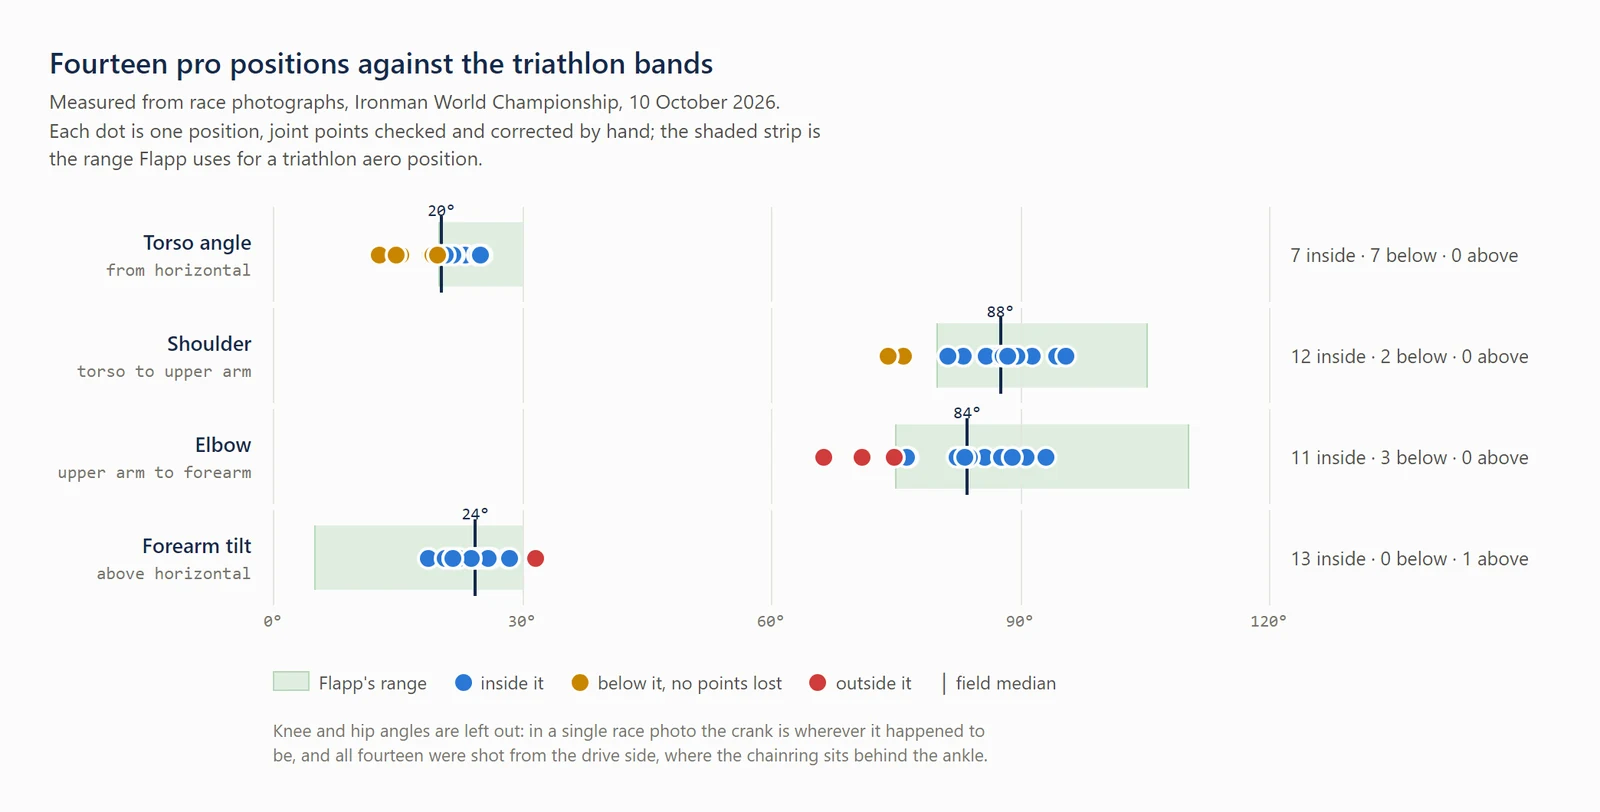
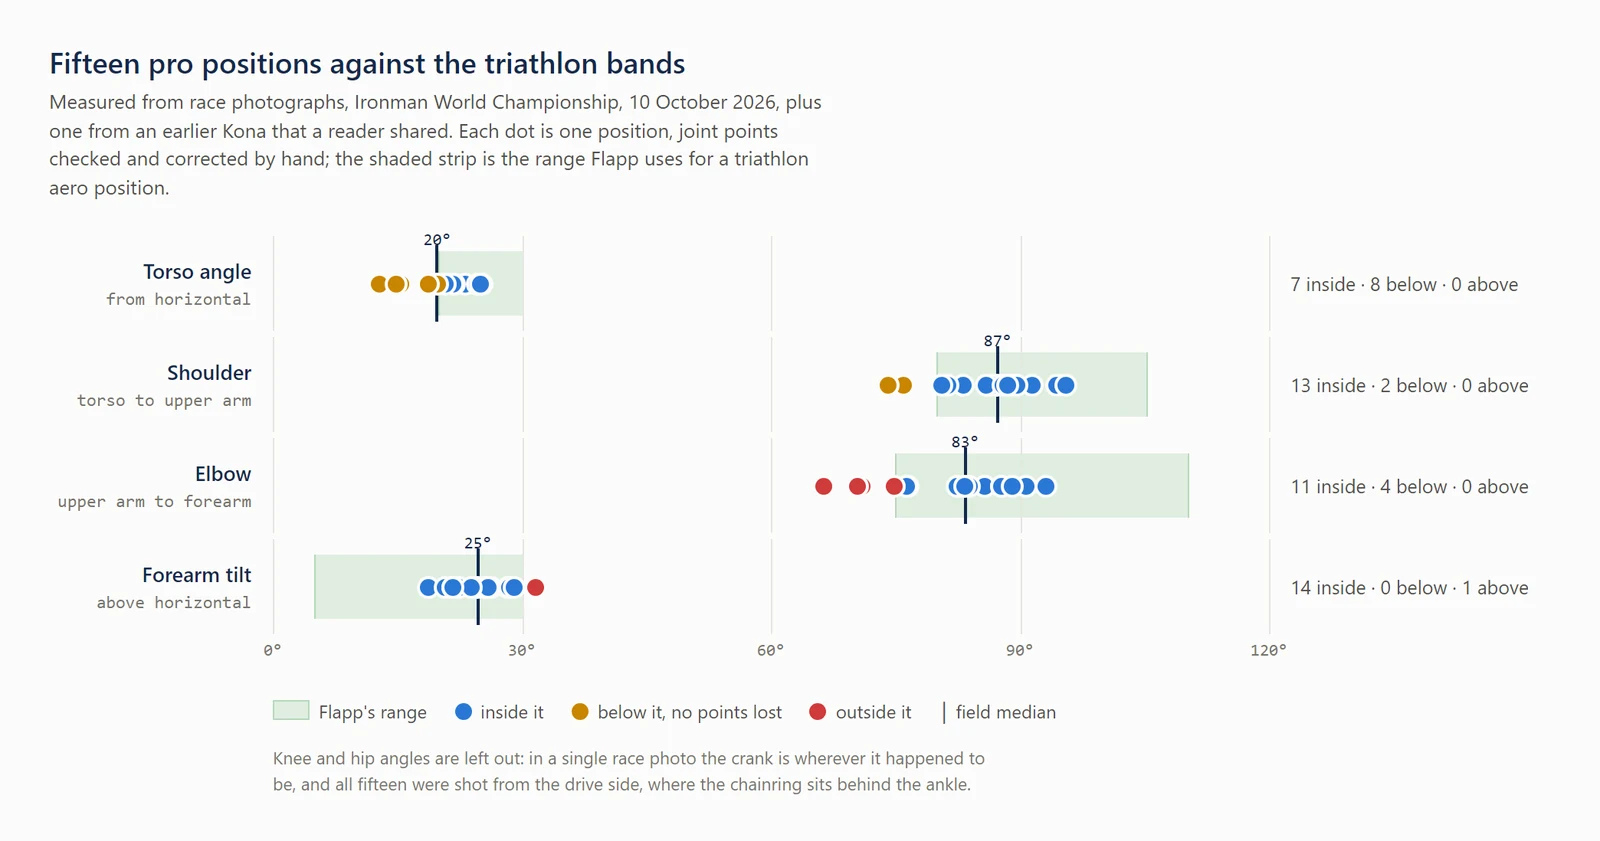
Kona article: Trevor Foley added as position 15, ranges re-measured on fifteen
A reader asked about Foley and shared a photo; Artur corrected its points in
the same editor. It is from an earlier Kona, not 2026, and the caption, the
method and the field chart say so. New medians: torso 20, shoulder 87,
elbow 83, forearm 25; middle halves 19-22, 82-89, 76-88, 22-27.

diff --git a/backend/tests/test_academy_figures.py b/backend/tests/test_academy_figures.py
@@ -51,26 +51,29 @@ class TestTheKonaDraft:
         for src in srcs:
             assert (MEDIA / src.removeprefix("/media/")).is_file(), src
 
-    def test_all_fourteen_positions_are_shown_on_their_photographs(self):
+    def test_all_fifteen_positions_are_shown_on_their_photographs(self):
         """Artur's call (2026-10-11): the figures first went out drawn on a
         neutral ground; he asked for the race photographs, every one. The
-        frame where the model found the motorbike passenger stays out."""
+        frame where the model found the motorbike passenger stays out. The
+        fifteenth is Trevor Foley, a reader's photo from an earlier Kona,
+        and its caption says so."""
         text = DRAFT.read_text(encoding="utf-8")
         shown = re.findall(r"\(/media/academy/kona-2026/position-(\d\d)\.webp\)", text)
-        assert shown == [f"{n:02d}" for n in range(1, 15)]
-        tilts = [float(m) for m in re.findall(r"Position \d+ of 14: forearm tilt (\d+)", text)]
+        assert shown == [f"{n:02d}" for n in range(1, 16)]
+        assert "Trevor Foley, from a photo a reader shared; an earlier Kona, not the 2026 race." in text
+        tilts = [float(m) for m in re.findall(r"Position \d+ of 15: forearm tilt (\d+)", text)]
         assert tilts == sorted(tilts), "ordered from the flattest forearms to the steepest"
 
     def test_the_hand_corrections_are_disclosed(self):
         """Readers pointed out points sitting off the joints; Artur moved the
-        ones that missed on all fourteen photos (2026-10-11). The article says
+        ones that missed on all fifteen photos (2026-10-11). The article says
         it was updated, how many points moved and by how much, rings every
         moved point, and gives the before-and-after medians."""
         text = DRAFT.read_text(encoding="utf-8")
         assert text.split("---", 2)[2].lstrip().startswith("**Updated 11 October 2026.**")
-        assert "33 of the 56 points moved" in text
+        assert "36 of the 60 points moved" in text
         assert "A ringed point is one we moved into the joint by hand." in text
-        assert "shoulder 85° to 88°, elbow 80° to 84°, forearm tilt 25° to 24°" in text
+        assert "shoulder 84° to 87°, elbow 78° to 83°" in text
 
     def test_uci_is_not_presented_as_a_triathlon_rule(self):
         """UCI equipment rules govern road time trials, not Ironman, whose 2025
@@ -82,10 +85,10 @@ class TestTheKonaDraft:
 
     def test_the_numbers_in_the_text_match_the_table(self):
         text = DRAFT.read_text(encoding="utf-8")
-        for row in ("| Torso, from horizontal | 20° | 19–23° | 13–25° | 20–30° |",
-                    "| Shoulder, torso to upper arm | 88° | 84–89° | 74–96° | 80–105° |",
-                    "| Elbow | 84° | 76–88° | 66–93° | 75–110° |",
-                    "| Forearm tilt, above horizontal | 24° | 22–26° | 19–32° | 5–30° |"):
+        for row in ("| Torso, from horizontal | 20° | 19–22° | 13–25° | 20–30° |",
+                    "| Shoulder, torso to upper arm | 87° | 82–89° | 74–96° | 80–105° |",
+                    "| Elbow | 83° | 76–88° | 66–93° | 75–110° |",
+                    "| Forearm tilt, above horizontal | 25° | 22–27° | 19–32° | 5–30° |"):
             assert row in text, row
 
     def test_the_article_column_cannot_be_pushed_wider_than_a_phone(self):

diff --git a/backend/content/academy/kona-2026-pro-bike-positions.md b/backend/content/academy/kona-2026-pro-bike-positions.md
@@ -1,7 +1,7 @@
 ---
 slug: "kona-2026-pro-bike-positions"
-title: "Kona 2026: What 14 Pro Bike Positions Actually Measure"
-description: "We measured fourteen professional triathlon positions from Ironman World Championship race photos and checked every joint point by hand. Hands are up, torsos are not as low as you think, and a closed shoulder is a choice. The numbers, and what an age-grouper should take from them."
+title: "Kona 2026: What 15 Pro Bike Positions Actually Measure"
+description: "We measured fifteen professional triathlon positions from Ironman World Championship race photos and checked every joint point by hand. Hands are up, torsos are not as low as you think, and a closed shoulder is a choice. The numbers, and what an age-grouper should take from them."
 category: "bike-aero"
 sport: "bike"
 read_time: 7
@@ -42,26 +42,26 @@ sources:
     finding: "A 90° torso-to-upper-arm angle is the reference; less than 90° is the athlete's personal choice, while an angle more obtuse than 90° can become an issue."
 ---
 
-**Updated 11 October 2026.** After the first version went out, readers pointed out that some of the pose model's points sat off the joints. They were right, so we checked every point on every photo and moved the ones that missed into the joint by hand. All the numbers, figures and photos below are the corrected ones; what changed is listed under "How we measured".
+**Updated 11 October 2026.** After the first version went out, readers pointed out that some of the pose model's points sat off the joints. They were right, so we checked every point on every photo and moved the ones that missed into the joint by hand. We also added a fifteenth position a reader asked about: Trevor Foley, from an earlier Kona. All the numbers, figures and photos below are the corrected ones; what changed is listed under "How we measured".
 
-The day after the Ironman World Championship we ran fourteen professional bike positions, taken from race photographs, through the same pose model Flapp uses on your clips. The median pro rode with the torso 20° above horizontal, the upper arm at 88° to the torso, the elbow bent to 84° and the forearms tilted 24° up. The forearms are the story: not one of the fourteen rode them flat.
+The day after the Ironman World Championship we ran fourteen professional bike positions, taken from race photographs, through the same pose model Flapp uses on your clips, plus one more that a reader sent in. The median pro rode with the torso 20° above horizontal, the upper arm at 87° to the torso, the elbow bent to 83° and the forearms tilted 25° up. The forearms are the story: not one of the fifteen rode them flat.
 
 ## The median Kona position
 
 | Angle | Median | Middle half | Full range | Flapp's triathlon range |
 |---|---|---|---|---|
-| Torso, from horizontal | 20° | 19–23° | 13–25° | 20–30° |
-| Shoulder, torso to upper arm | 88° | 84–89° | 74–96° | 80–105° |
-| Elbow | 84° | 76–88° | 66–93° | 75–110° |
-| Forearm tilt, above horizontal | 24° | 22–26° | 19–32° | 5–30° |
+| Torso, from horizontal | 20° | 19–22° | 13–25° | 20–30° |
+| Shoulder, torso to upper arm | 87° | 82–89° | 74–96° | 80–105° |
+| Elbow | 83° | 76–88° | 66–93° | 75–110° |
+| Forearm tilt, above horizontal | 25° | 22–27° | 19–32° | 5–30° |
 
-![Each dot is one of the fourteen positions; the green strip is the range Flapp uses for a triathlon aero position. Amber marks a reading below the range that costs no points.](/media/academy/kona-2026/field.webp)
+![Each dot is one of the fifteen positions; the green strip is the range Flapp uses for a triathlon aero position. Amber marks a reading below the range that costs no points.](/media/academy/kona-2026/field.webp)
 
 ## 1. The hands have gone up
 
-In every one of the fourteen positions the forearms were tilted at least 19° above horizontal. Six were past 25°, and one passed 30°. A few years ago a flat forearm was the default; at Kona nobody rode one.
+In every one of the fifteen positions the forearms were tilted at least 19° above horizontal. Seven were past 25°, and one passed 30°. A few years ago a flat forearm was the default; at Kona nobody rode one.
 
-Triathlon never had the rule that held road time trials back. Under UCI rules, the armrests in a road time trial could tilt no more than 15° until 1 January 2023, when the limit went up to 30°. Those rules do not apply to Ironman. Its 2025 rules limit how far the extensions reach, not past the leading edge of the front wheel, and set no limit on tilt. So the pros at Kona could go as steep as they liked, and the middle half of the field settled between 22° and 26°.
+Triathlon never had the rule that held road time trials back. Under UCI rules, the armrests in a road time trial could tilt no more than 15° until 1 January 2023, when the limit went up to 30°. Those rules do not apply to Ironman. Its 2025 rules limit how far the extensions reach, not past the leading edge of the front wheel, and set no limit on tilt. So the pros at Kona could go as steep as they liked, and the middle half of the field settled between 22° and 27°.
 
 The aerodynamics back them. In a 2025 study that modelled one professional rider and checked the model in a wind tunnel, very high hands alone cut drag area by 3%. Combined with narrow elbows the saving grew to 7.7% for high hands and 11.2% for very high hands. Mat Steinmetz, a fitter who works with professional triathletes, describes the same change from the other side: 10–20° of bar tilt supports the upper body, relaxes the shoulders and makes a pocket for the head.
 
@@ -69,19 +69,19 @@ The aerodynamics back them. In a 2025 study that modelled one professional rider
 
 ![Rider B, one of the steepest: forearms at 28°, elbow closed to 75°, torso at 15°.](/media/academy/kona-2026/rider-b.webp)
 
-Two cautions. The saving is rider-specific, and the same study found that a smaller frontal area did not automatically mean less drag. And the elbow pays for it: when the hands rise, the elbow tends to close. Across the field the two moved in opposite directions (r = −0.58). Three riders sat below the 75° elbow floor in our own range. That floor was written for flatter forearms; we have not lowered it because we have not yet found a fitter or a study that names a lower number. If you ride tilted extensions, read your elbow angle together with your forearm tilt, not on its own.
+Two cautions. The saving is rider-specific, and the same study found that a smaller frontal area did not automatically mean less drag. And the elbow pays for it: when the hands rise, the elbow tends to close. Across the field the two moved in opposite directions (r = −0.63). Four riders sat below the 75° elbow floor in our own range. That floor was written for flatter forearms; we have not lowered it because we have not yet found a fitter or a study that names a lower number. If you ride tilted extensions, read your elbow angle together with your forearm tilt, not on its own.
 
 ## 2. The torso is not as low as you would think
 
-The median torso was 20°, and half the field sat between 19° and 23°. That is lower than most age-groupers ride, but it is not the flat back of a track pursuit. Steinmetz makes the same point: the pros' back angles have hardly changed in recent years. What changed is where the hands and the reach are.
+The median torso was 20°, and half the field sat between 19° and 22°. That is lower than most age-groupers ride, but it is not the flat back of a track pursuit. Steinmetz makes the same point: the pros' back angles have hardly changed in recent years. What changed is where the hands and the reach are.
 
 There is a reason the back stops where it does. Fintelman's work on nineteen trained cyclists measured what a lower torso buys and what it costs. Going from 24° to 16° cut frontal area by about 5%, and going on to 8° cut about another 5%. But maximal power and every physiological variable fell as the torso dropped, and the flattest position was significantly worse than all the others. His models put the best torso angle around 17° for speeds between 32 and 39 km/h, and found that a fully flat back is never optimal.
 
-Seven of the fourteen positions were below 20°, the lowest at 13°. Pros can hold that: years of conditioning, four or more hours at a time. Most age-group athletes cannot hold that and still make their power. Flapp does not take points for a torso flatter than the range on aero bars, but it says plainly that this is the trade, and that it only pays if you can still breathe, push and hold it late in the race.
+Eight of the fifteen positions were below 20°, the lowest at 13°. Pros can hold that: years of conditioning, four or more hours at a time. Most age-group athletes cannot hold that and still make their power. Flapp does not take points for a torso flatter than the range on aero bars, but it says plainly that this is the trade, and that it only pays if you can still breathe, push and hold it late in the race.
 
 ## 3. A closed shoulder is a choice, not an error
 
-Most of the field sat close to the classic reference. The median upper arm was at 88° to the torso, and half the field sat between 84° and 89°. Fit guidance puts the reference at 90°: elbows under the shoulders. Fintelman's riders, in their own preferred positions, averaged 91° give or take 5°. Kona's median sits right on top of that.
+Most of the field sat close to the classic reference. The median upper arm was at 87° to the torso, and half the field sat between 82° and 89°. Fit guidance puts the reference at 90°: elbows under the shoulders. Fintelman's riders, in their own preferred positions, averaged 91° give or take 5°. Kona's median sits right on top of that.
 
 Two positions closed the shoulder further, to 76° and 74°. The people who wrote the guidance never called that a fault. Dan Empfield's original description of the measurement says an angle below 90° is the athlete's personal choice, and that it is an angle opened past 90° that can become a problem.
 
@@ -91,49 +91,51 @@ Two positions closed the shoulder further, to 76° and 74°. The people who wrot
 
 What to check if you ride like Rider C: whether the shoulders are shrugged up toward the ears, which is tiring and hard to breathe through, and whether the arms are carrying you or you are holding yourself up.
 
-## All fourteen positions
+## All fifteen positions
 
 Every position we measured, ordered from the flattest forearms to the steepest. The labels are Flapp's own readings for a triathlon position: green inside the range, amber just outside it or below it at no cost, red outside it. A ringed point is one we moved into the joint by hand. Knee, hip and ankle are left off for the reasons in the next section.
 
-![Position 1 of 14: forearm tilt 19°, torso 23°, shoulder 86°, elbow 91°.](/media/academy/kona-2026/position-01.webp)
+![Position 1 of 15: forearm tilt 19°, torso 23°, shoulder 86°, elbow 91°.](/media/academy/kona-2026/position-01.webp)
 
-![Position 2 of 14: forearm tilt 21°, torso 25°, shoulder 83°, elbow 88°.](/media/academy/kona-2026/position-02.webp)
+![Position 2 of 15: forearm tilt 21°, torso 25°, shoulder 83°, elbow 88°.](/media/academy/kona-2026/position-02.webp)
 
-![Position 3 of 14: forearm tilt 22°, torso 25°, shoulder 86°, elbow 89°.](/media/academy/kona-2026/position-03.webp)
+![Position 3 of 15: forearm tilt 22°, torso 25°, shoulder 86°, elbow 89°.](/media/academy/kona-2026/position-03.webp)
 
-![Position 4 of 14: forearm tilt 22°, torso 15°, shoulder 90°, elbow 83°.](/media/academy/kona-2026/position-04.webp)
+![Position 4 of 15: forearm tilt 22°, torso 15°, shoulder 90°, elbow 83°.](/media/academy/kona-2026/position-04.webp)
 
-![Position 5 of 14: forearm tilt 22°, torso 19°, shoulder 89°, elbow 86°.](/media/academy/kona-2026/position-05.webp)
+![Position 5 of 15: forearm tilt 22°, torso 19°, shoulder 89°, elbow 86°.](/media/academy/kona-2026/position-05.webp)
 
-![Position 6 of 14: forearm tilt 24°, torso 20°, shoulder 88°, elbow 84°.](/media/academy/kona-2026/position-06.webp)
+![Position 6 of 15: forearm tilt 24°, torso 20°, shoulder 88°, elbow 84°.](/media/academy/kona-2026/position-06.webp)
 
-![Position 7 of 14: forearm tilt 24°, torso 19°, shoulder 81°, elbow 76°.](/media/academy/kona-2026/position-07.webp)
+![Position 7 of 15: forearm tilt 24°, torso 19°, shoulder 81°, elbow 76°.](/media/academy/kona-2026/position-07.webp)
 
-![Position 8 of 14: forearm tilt 25°, torso 22°, shoulder 74°, elbow 71°.](/media/academy/kona-2026/position-08.webp)
+![Position 8 of 15: forearm tilt 25°, torso 22°, shoulder 74°, elbow 71°.](/media/academy/kona-2026/position-08.webp)
 
-![Position 9 of 14: forearm tilt 26°, torso 22°, shoulder 92°, elbow 88°.](/media/academy/kona-2026/position-09.webp)
+![Position 9 of 15: forearm tilt 26°, torso 22°, shoulder 92°, elbow 88°.](/media/academy/kona-2026/position-09.webp)
 
-![Position 10 of 14: forearm tilt 26°, torso 13°, shoulder 96°, elbow 82°.](/media/academy/kona-2026/position-10.webp)
+![Position 10 of 15: forearm tilt 26°, torso 13°, shoulder 96°, elbow 82°.](/media/academy/kona-2026/position-10.webp)
 
-![Position 11 of 14: forearm tilt 26°, torso 25°, shoulder 94°, elbow 93°.](/media/academy/kona-2026/position-11.webp)
+![Position 11 of 15: forearm tilt 26°, torso 25°, shoulder 94°, elbow 93°.](/media/academy/kona-2026/position-11.webp)
 
-![Position 12 of 14: forearm tilt 28°, torso 19°, shoulder 76°, elbow 66°.](/media/academy/kona-2026/position-12.webp)
+![Position 12 of 15: forearm tilt 28°, torso 19°, shoulder 76°, elbow 66°.](/media/academy/kona-2026/position-12.webp)
 
-![Position 13 of 14: forearm tilt 28°, torso 15°, shoulder 89°, elbow 75°.](/media/academy/kona-2026/position-13.webp)
+![Position 13 of 15: forearm tilt 28°, torso 15°, shoulder 89°, elbow 75°.](/media/academy/kona-2026/position-13.webp)
 
-![Position 14 of 14: forearm tilt 32°, torso 21°, shoulder 87°, elbow 76°.](/media/academy/kona-2026/position-14.webp)
+![Position 14 of 15: forearm tilt 29°, torso 19°, shoulder 81°, elbow 70°. Trevor Foley, from a photo a reader shared; an earlier Kona, not the 2026 race.](/media/academy/kona-2026/position-14.webp)
+
+![Position 15 of 15: forearm tilt 32°, torso 21°, shoulder 87°, elbow 76°.](/media/academy/kona-2026/position-15.webp)
 
 ## What we did not measure, and why
 
 No knee angles and no saddle verdicts. In a single race photo the crank is wherever it happened to be, so the knee angle is not a saddle-height reading. There is a second reason. Every one of these photos was taken from the drive side, the side with the chainring, because the riders crossed the frame in the same direction past photographers on one side of the road. On two bikes of our own we measured that the drive side reads the knee at the bottom of the stroke 8–10° lower than it really is: the ankle point slides onto the dark chainring behind it. So we left the legs out rather than publish numbers we know are biased.
 
-How we measured: fifteen photographs. One was rejected. The model had found the passenger on the camera motorbike instead of the rider, and Flapp returned no score rather than a wrong one. On the other fourteen, angles were measured in 2D on the side of the body nearest the camera, from four points: shoulder, elbow, wrist and hip. A pose model's points are its best guess at where each joint is, not the bony landmarks a fitter would mark by hand, and in the first version of this article several of them missed. So we went through all fourteen photos and moved every point that missed into the joint by hand, the same way the app lets you correct a point on your own photo. 33 of the 56 points moved, by a median of about 2 cm. The largest move, about 8 cm, was the shoulder in position 9, which the model had put on the top edge of the back. Centimetres here are estimated from each rider's own hip-to-shoulder distance, taken as 50 cm. Every moved point is ringed on its photo.
+How we measured: fifteen photographs from the 2026 race. One was rejected. The model had found the passenger on the camera motorbike instead of the rider, and Flapp returned no score rather than a wrong one. Position 14 is the one addition: Trevor Foley, from a photo a reader shared in the comments. It comes from an earlier Kona, not the 2026 race, and we do not know who took it. On all fifteen, angles were measured in 2D on the side of the body nearest the camera, from four points: shoulder, elbow, wrist and hip. A pose model's points are its best guess at where each joint is, not the bony landmarks a fitter would mark by hand, and in the first version of this article several of them missed. So we went through all fifteen photos and moved every point that missed into the joint by hand, the same way the app lets you correct a point on your own photo. 36 of the 60 points moved, by a median of under 2 cm. The largest move, about 8 cm, was the shoulder in position 9, which the model had put on the top edge of the back. Centimetres here are estimated from each rider's own hip-to-shoulder distance, taken as 50 cm. Every moved point is ringed on its photo.
 
-The corrections moved the medians by 4° at most: torso 20° before and after, shoulder 85° to 88°, elbow 80° to 84°, forearm tilt 25° to 24°. They changed single riders more. The flattest forearm went from 10° to 19°, and the number of shoulders closed below 80° went from five to two. That is why we report the field rather than anyone's exact fit. Some athletes may appear in more than one photo; we could not check, so each photo counts as one position. The labels on the photographs are drawn by the same renderer the app uses on your own photos. It is one race, one day and one roadside viewpoint, so read these as the shape of a field, not as anyone's exact fit. We do not name the athletes: we cannot verify who is in every frame, and the point is the position, not the person.
+Against the model's own points, the corrections moved the medians by 5° at most: torso and forearm tilt 20° and 25° before and after, shoulder 84° to 87°, elbow 78° to 83°. They changed single riders more. The flattest forearm went from 10° to 19°, and the number of shoulders closed below 80° went from six to two. That is why we report the field rather than anyone's exact fit. Some athletes may appear in more than one photo; we could not check, so each photo counts as one position. The labels on the photographs are drawn by the same renderer the app uses on your own photos. It is one race, one day and one roadside viewpoint, so read these as the shape of a field, not as anyone's exact fit. We do not name the 2026 athletes: we cannot verify who is in every frame, and the point is the position, not the person. The one name here is the one a reader gave us with his photo.
 
 ## What to take for your own position
 
-- **Try some forearm tilt before you chase a lower torso.** It is the trend with the best evidence and it is cheap to adjust. Every position here had at least 19°, and the middle half sat between 22° and 26°. Keep the elbows narrow; that is where most of the measured saving came from.
+- **Try some forearm tilt before you chase a lower torso.** It is the trend with the best evidence and it is cheap to adjust. Every position here had at least 19°, and the middle half sat between 22° and 27°. Keep the elbows narrow; that is where most of the measured saving came from.
 - **Do not copy a 15° torso.** Find the lowest angle you can hold for your race distance and still make your power, then test it in training at race effort.
 - **A closed shoulder is fine** if you are not shrugging and you can breathe.
 - **Measure yourself the same way.** Film from the side away from the chainring, camera at hip height, and include the bottom of the pedal stroke. If a point lands off a joint, drag it into place before you read the numbers. Then you can put your own numbers next to the table above.
